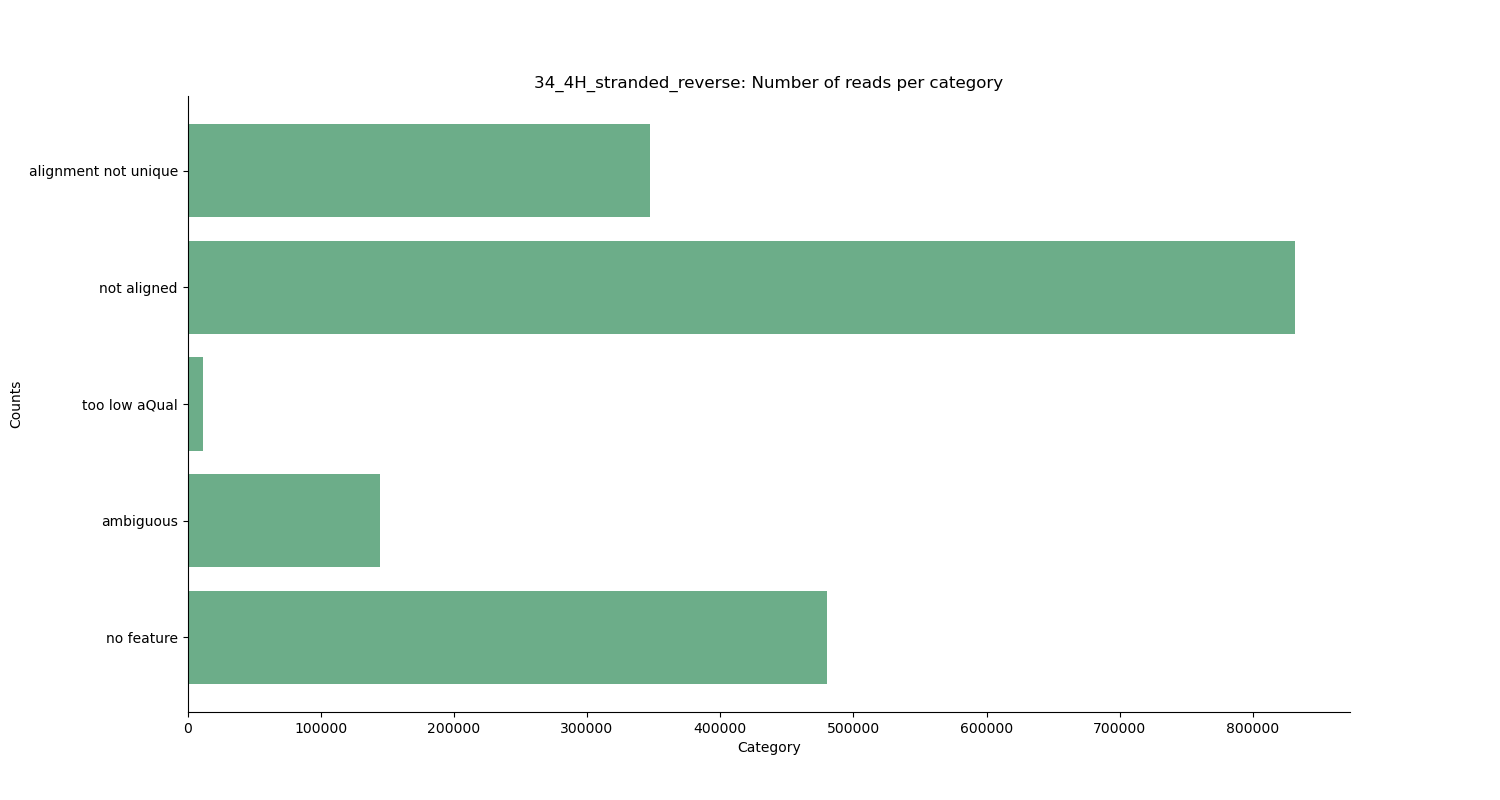
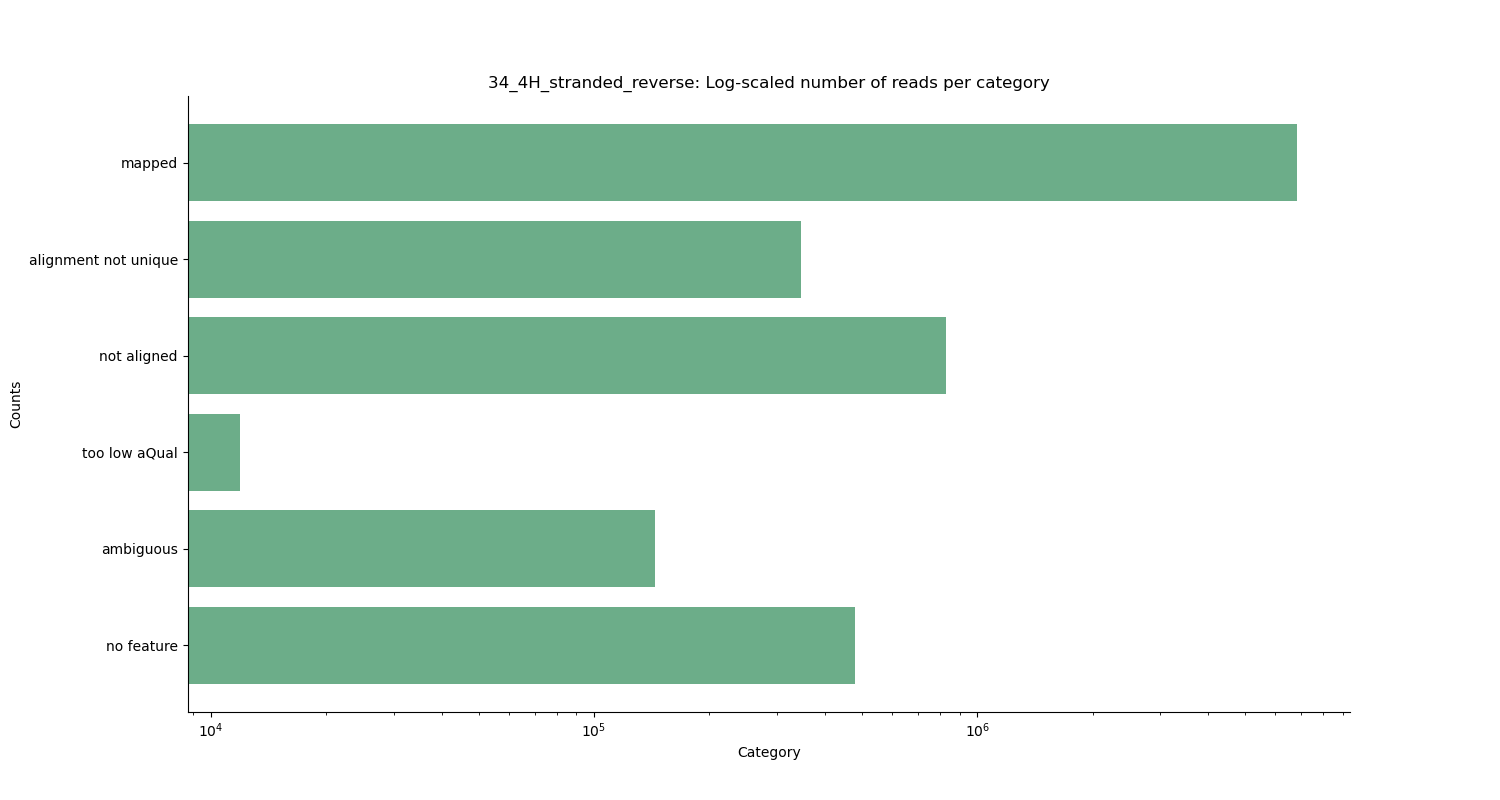
fixed graphs

diff --git a/htseq_count_part3/convince_leslie.py b/htseq_count_part3/convince_leslie.py
@@ -24,7 +24,7 @@ def get_counts(fh):
     ax.yaxis.set_major_formatter(formatter)
     ax.xaxis.set_major_formatter(formatter)
 
-    ax.set(title=f"{args.filename[:args.filename.index(".")]}: Number of genes with certain counts",ylabel="Number of genes",
+    ax.set(title=f"{args.filename[:args.filename.index(".")]}: Log-scaled number of genes with certain counts",ylabel="Number of genes",
            xlabel="Counts")
     sns.despine(top=True,right=True)
     out_file=args.filename[:args.filename.index(".")]+".png"
@@ -34,17 +34,24 @@ def get_counts(fh):
 def get_categories(fh):
     data=fh.read().split("\n")
 
-    #for our summary categories, create a list of tuples formatted (category, count)
-    cats=[item.split()[0].replace("_"," ").strip() for item in data if item.split("\t")[0].startswith("__")]
-    counts=[int(item.split()[1].strip()) for item in data if item.split("\t")[0].startswith("__")]
-    _,ax=plt.subplots(figsize=(15, 8))
+    #for our summary categories, create a list of counts
+    #tack on mapped
+    cats=[item.split()[0].replace("_"," ").strip() for item in data if item.split("\t")[0].startswith("__")]+["mapped"]
+    
+    #anything that is not a summary stat (__) is mapped content
+    counts=[int(item.split()[1].strip()) for item in data if item.split("\t")[0].startswith("__")]+\
+           [sum([int(item.split()[1].strip()) for item in data if item.split("\t")[0].startswith("ENS")])]
+    _,ax=plt.subplots(figsize=(15,8))
+
+    #barh so use x-scale 
+    plt.xscale("log")
     plt.barh(cats,counts,color="seagreen",alpha=0.7)
     sns.despine(top=True,right=True)
-    ax.set(title=f"{args.filename[:args.filename.index(".")]}: Number of reads per category",ylabel="Counts",
+    ax.set(title=f"{args.filename[:args.filename.index(".")]}: Log-scaled number of reads per category",ylabel="Counts",
            xlabel="Category")
     out_file="cats_"+args.filename[:args.filename.index(".")]+".png"
     plt.savefig(out_file)
 
 
-get_counts(fh)
-#get_categories(fh)
+#get_counts(fh)
+get_categories(fh)
